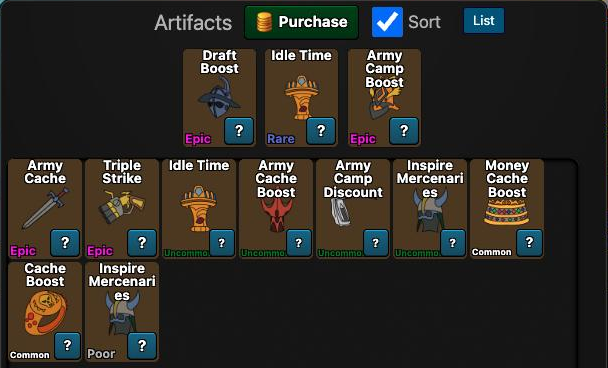
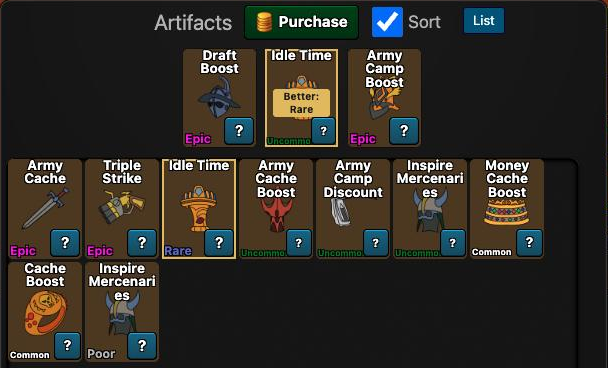
Guide: artifact window picture with the Better tag

diff --git a/docs/guide.html b/docs/guide.html
@@ -291,8 +291,8 @@
     <figcaption>Time to afford beside each upgrade, and Best value on the best camp for the money.</figcaption>
   </figure>
   <figure>
-    <img src="media/guide-idle-artifacts.png" width="608" height="368" alt="Idle's artifact window: Purchase, Sort, and the script's List button, with the equipped artifacts on top and the rest below">
-    <figcaption>The artifact window (Artifacts → View All) with the script's <strong>List</strong> button. When an equipped artifact has a better copy below, it gets a gold Better tag.</figcaption>
+    <img src="media/guide-idle-artifacts.png" width="608" height="368" alt="Idle's artifact window with the script's List button; the equipped Uncommon Idle Time has a gold Better: Rare tag, and the Rare copy below is outlined">
+    <figcaption>The artifact window (Artifacts → View All): the equipped Uncommon Idle Time gets a gold <strong>Better: Rare</strong> tag, and the better copy is outlined. <strong>List</strong> is the script's.</figcaption>
   </figure>
   <figure>
     <img src="media/guide-idle-artifact-list.png" width="300" height="438" alt="All artifacts (12), sorted by rarity: each name with its rarity, ×2 for copies, equipped on the ones in use, and a store link">
